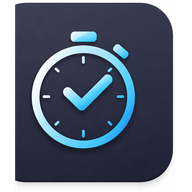
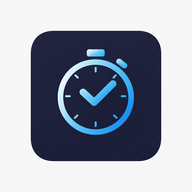
Add files via upload

diff --git a/index.html b/index.html
@@ -8,7 +8,8 @@
   <meta name="theme-color" content="#0f172a" />
   <!-- PWA -->
   <link rel="manifest" href="./manifest.webmanifest">
-  <link rel="apple-touch-icon" href="./icon-192.png">
+  <!-- iOS: nutze 180x180 ohne abgerundete Ecken/Shadow (iOS maskiert selbst) -->
+  <link rel="apple-touch-icon" sizes="180x180" href="./icon-180.png">
   <meta name="apple-mobile-web-app-capable" content="yes">
   <meta name="apple-mobile-web-app-status-bar-style" content="black-translucent">
   <meta name="apple-mobile-web-app-title" content="Time Tracker">
